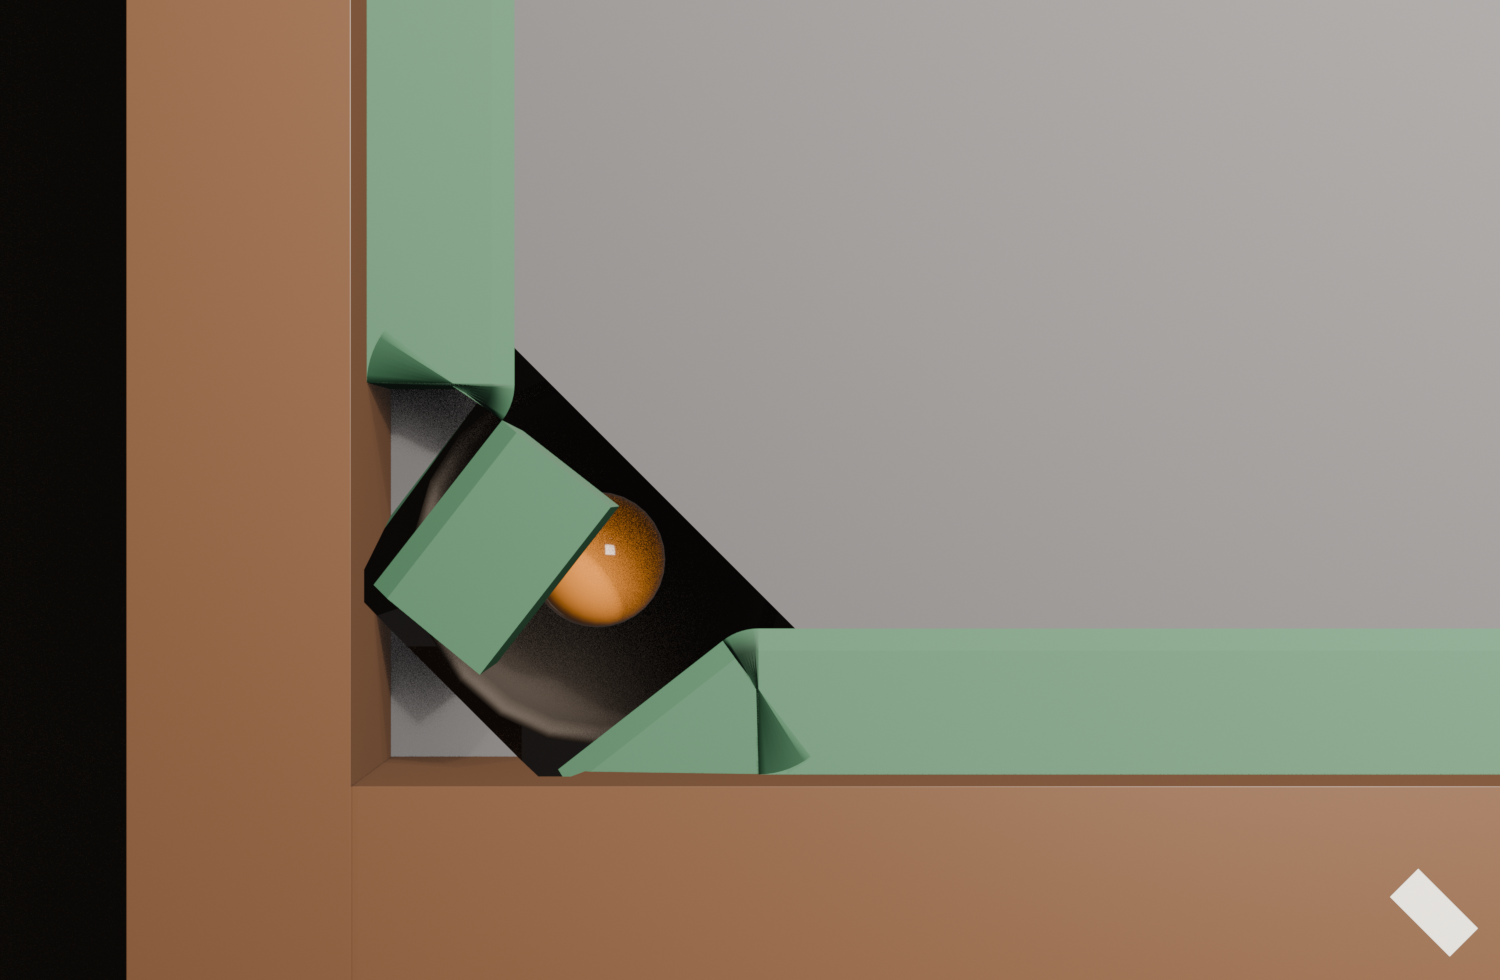
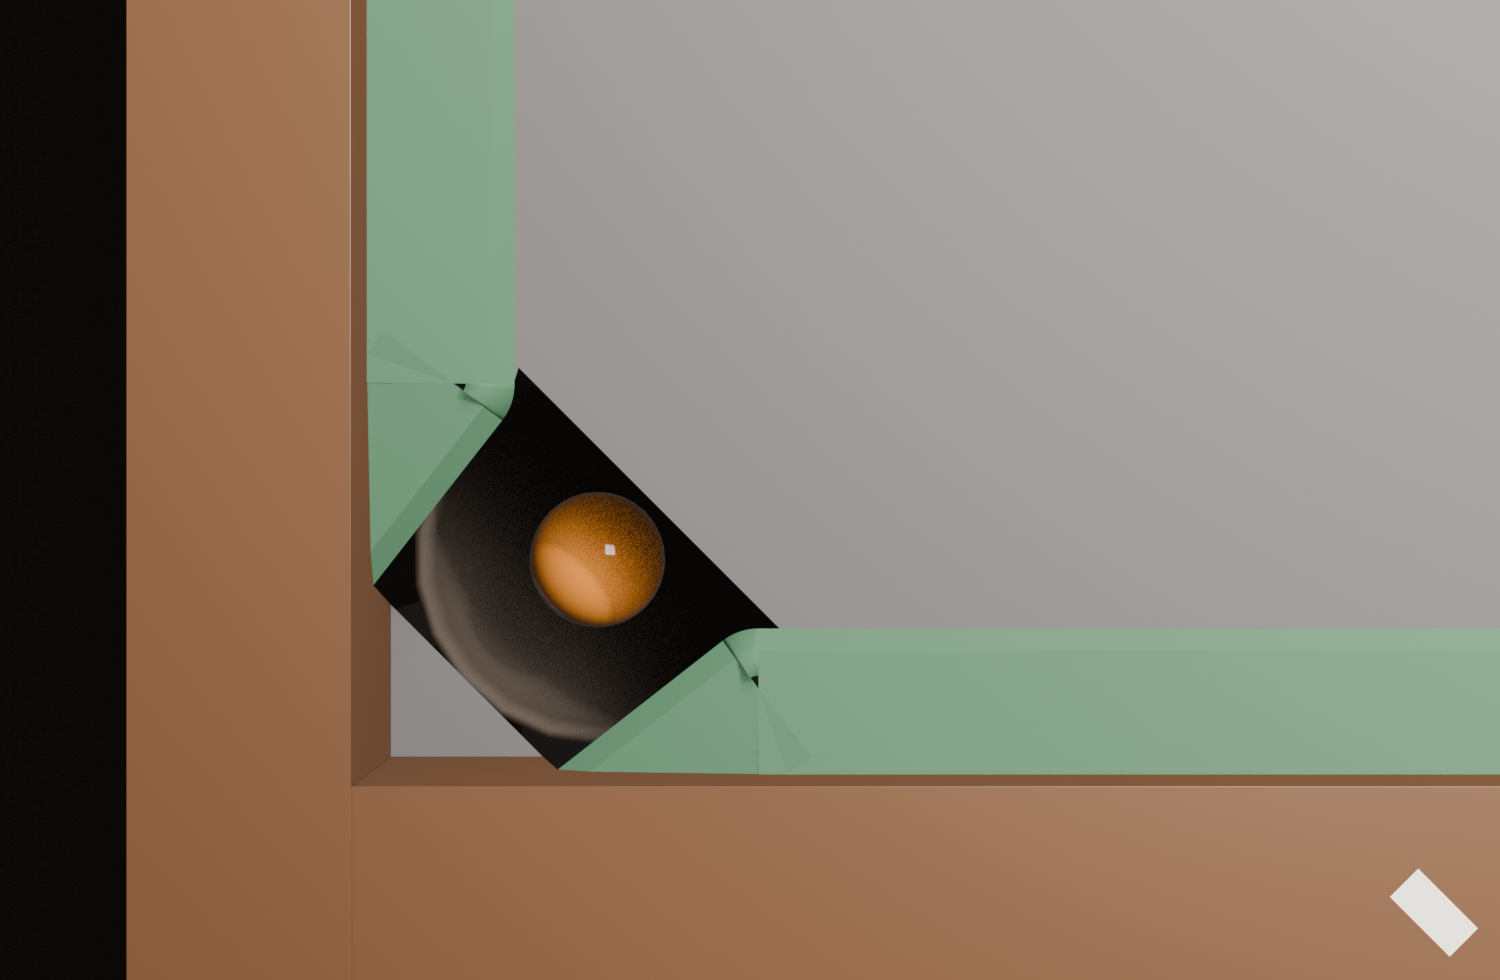
jaw cushions face the throat; pockets now read correctly
Three bugs, all in how the jaw geometry was oriented and cut:

- jaw faces were oriented 'away from the table centre' like a main rail, but
  a jaw's playing side is the pocket throat, so the cushion body swung round
  and sat across the mouth. Short segments (<0.2m) now orient off the nearest
  pocket centre instead.
- the fillet arcs have a 21mm radius against a 51mm cushion body; sweeping
  the full profile inward overshot the arc centre and folded back through the
  throat. Clamped to the arc radius.
- the pocket cutter was widened 5mm past the jaw line, undercutting the slate
  the jaws sit on. It now shrinks inside the line.

Verified from overhead: open throat, clean lips, ball visible in the pouch.

Built with Claude Code (LiFi NYC)

diff --git a/table_wpa.py b/table_wpa.py
@@ -197,9 +197,20 @@ def _segment_paths(table):
         d.normalize()
         nrm = Vector((-d.y, d.x, 0.0))
         mid = (p1 + p2) * 0.5
-        if (Vector((cx, cy, 0)) - mid).dot(nrm) < 0:
-            nrm = -nrm                      # always point into the playfield
-        runs.append(("lin_%s" % key, [p1, p2], [nrm, nrm]))
+        seg_len = (p2 - p1).length
+        if seg_len < 0.20:
+            # A jaw face. Its playing side is the pocket throat, not the
+            # middle of the table, so orienting it towards the table centre
+            # swings the cushion body around and buries it in the mouth.
+            pc = min(table.pockets.values(),
+                     key=lambda pk: (mid - Vector((pk.center[0], pk.center[1],
+                                                   0.0))).length)
+            to_pocket = Vector((pc.center[0], pc.center[1], 0.0)) - mid
+            if to_pocket.length > 1e-9 and to_pocket.dot(nrm) < 0:
+                nrm = -nrm                  # face the throat; body goes behind
+        elif (Vector((cx, cy, 0)) - mid).dot(nrm) < 0:
+            nrm = -nrm                      # main rail: face the playfield
+        runs.append(("lin_%s" % key, [p1, p2], [nrm, nrm], None))
 
     for key, seg in table.cushion_segments.circular.items():
         c = Vector((seg.center[0], seg.center[1], 0.0))
@@ -213,19 +224,30 @@ def _segment_paths(table):
                     touch.append(atan2(v.y, v.x))
         if len(touch) < 2:
             continue
-        a0, a1 = touch[0], touch[1]
+        touch = sorted(set(round(t, 6) for t in touch))
+        if len(touch) > 2:
+            pairs = [(abs(touch[i + 1] - touch[i]), touch[i], touch[i + 1])
+                     for i in range(len(touch) - 1)]
+            _, a0, a1 = min(pairs)
+        else:
+            a0, a1 = touch[0], touch[1]
         while a1 - a0 > math.pi:
             a1 -= 2 * math.pi
         while a0 - a1 > math.pi:
             a1 += 2 * math.pi
-        steps = 7
+        steps = 8
         path, normals = [], []
         for i in range(steps + 1):
             a = a0 + (a1 - a0) * i / steps
             p = c + Vector((cos(a) * r, sin(a) * r, 0.0))
             path.append(p)
             normals.append(Vector((cos(a), sin(a), 0.0)))   # outward from arc
-        runs.append(("arc_%s" % key, path, normals))
+        # These fillets are small (a 21 mm jaw radius against a 51 mm cushion
+        # body). Sweeping the full profile inwards overshoots the arc centre
+        # and folds the geometry back out across the pocket throat, so the
+        # body is clamped to stay inside its own radius.
+        runs.append(("arc_%s" % key, path, normals, min(r * 0.75, None)
+                     if False else r * 0.75))
     return runs
 
 
@@ -270,10 +292,10 @@ def build(mats, table):
 
     # ------------------------------------------------------------ cushions --
     cushions = []
-    for name, path, normals in _segment_paths(table):
+    for name, path, normals, width in _segment_paths(table):
         wpath = [bl(p.x, p.y) for p in path]
         ob = _extrude_profile("cushion_" + name, wpath, normals, NOSE,
-                              S.CUSHION_W, mats["cushion"])
+                              width or S.CUSHION_W, mats["cushion"])
         for p in ob.data.polygons:
             p.use_smooth = name.startswith("arc")
         cushions.append(ob)
@@ -332,7 +354,9 @@ def build(mats, table):
             if d.length < 1e-6:
                 continue
             d.normalize()
-            ring.append(v + d * 0.005)
+            # pull the cut *inside* the jaw line: widening past it undercuts
+            # the slate the jaw cushions sit on and leaves them floating
+            ring.append(v - d * 0.004)
         # Build the cutter with bmesh: an n-gon lofted downward and outward
         # by the WPA back draft. Hand-built face lists get culled by
         # mesh.validate() when the winding disagrees, which silently produced
